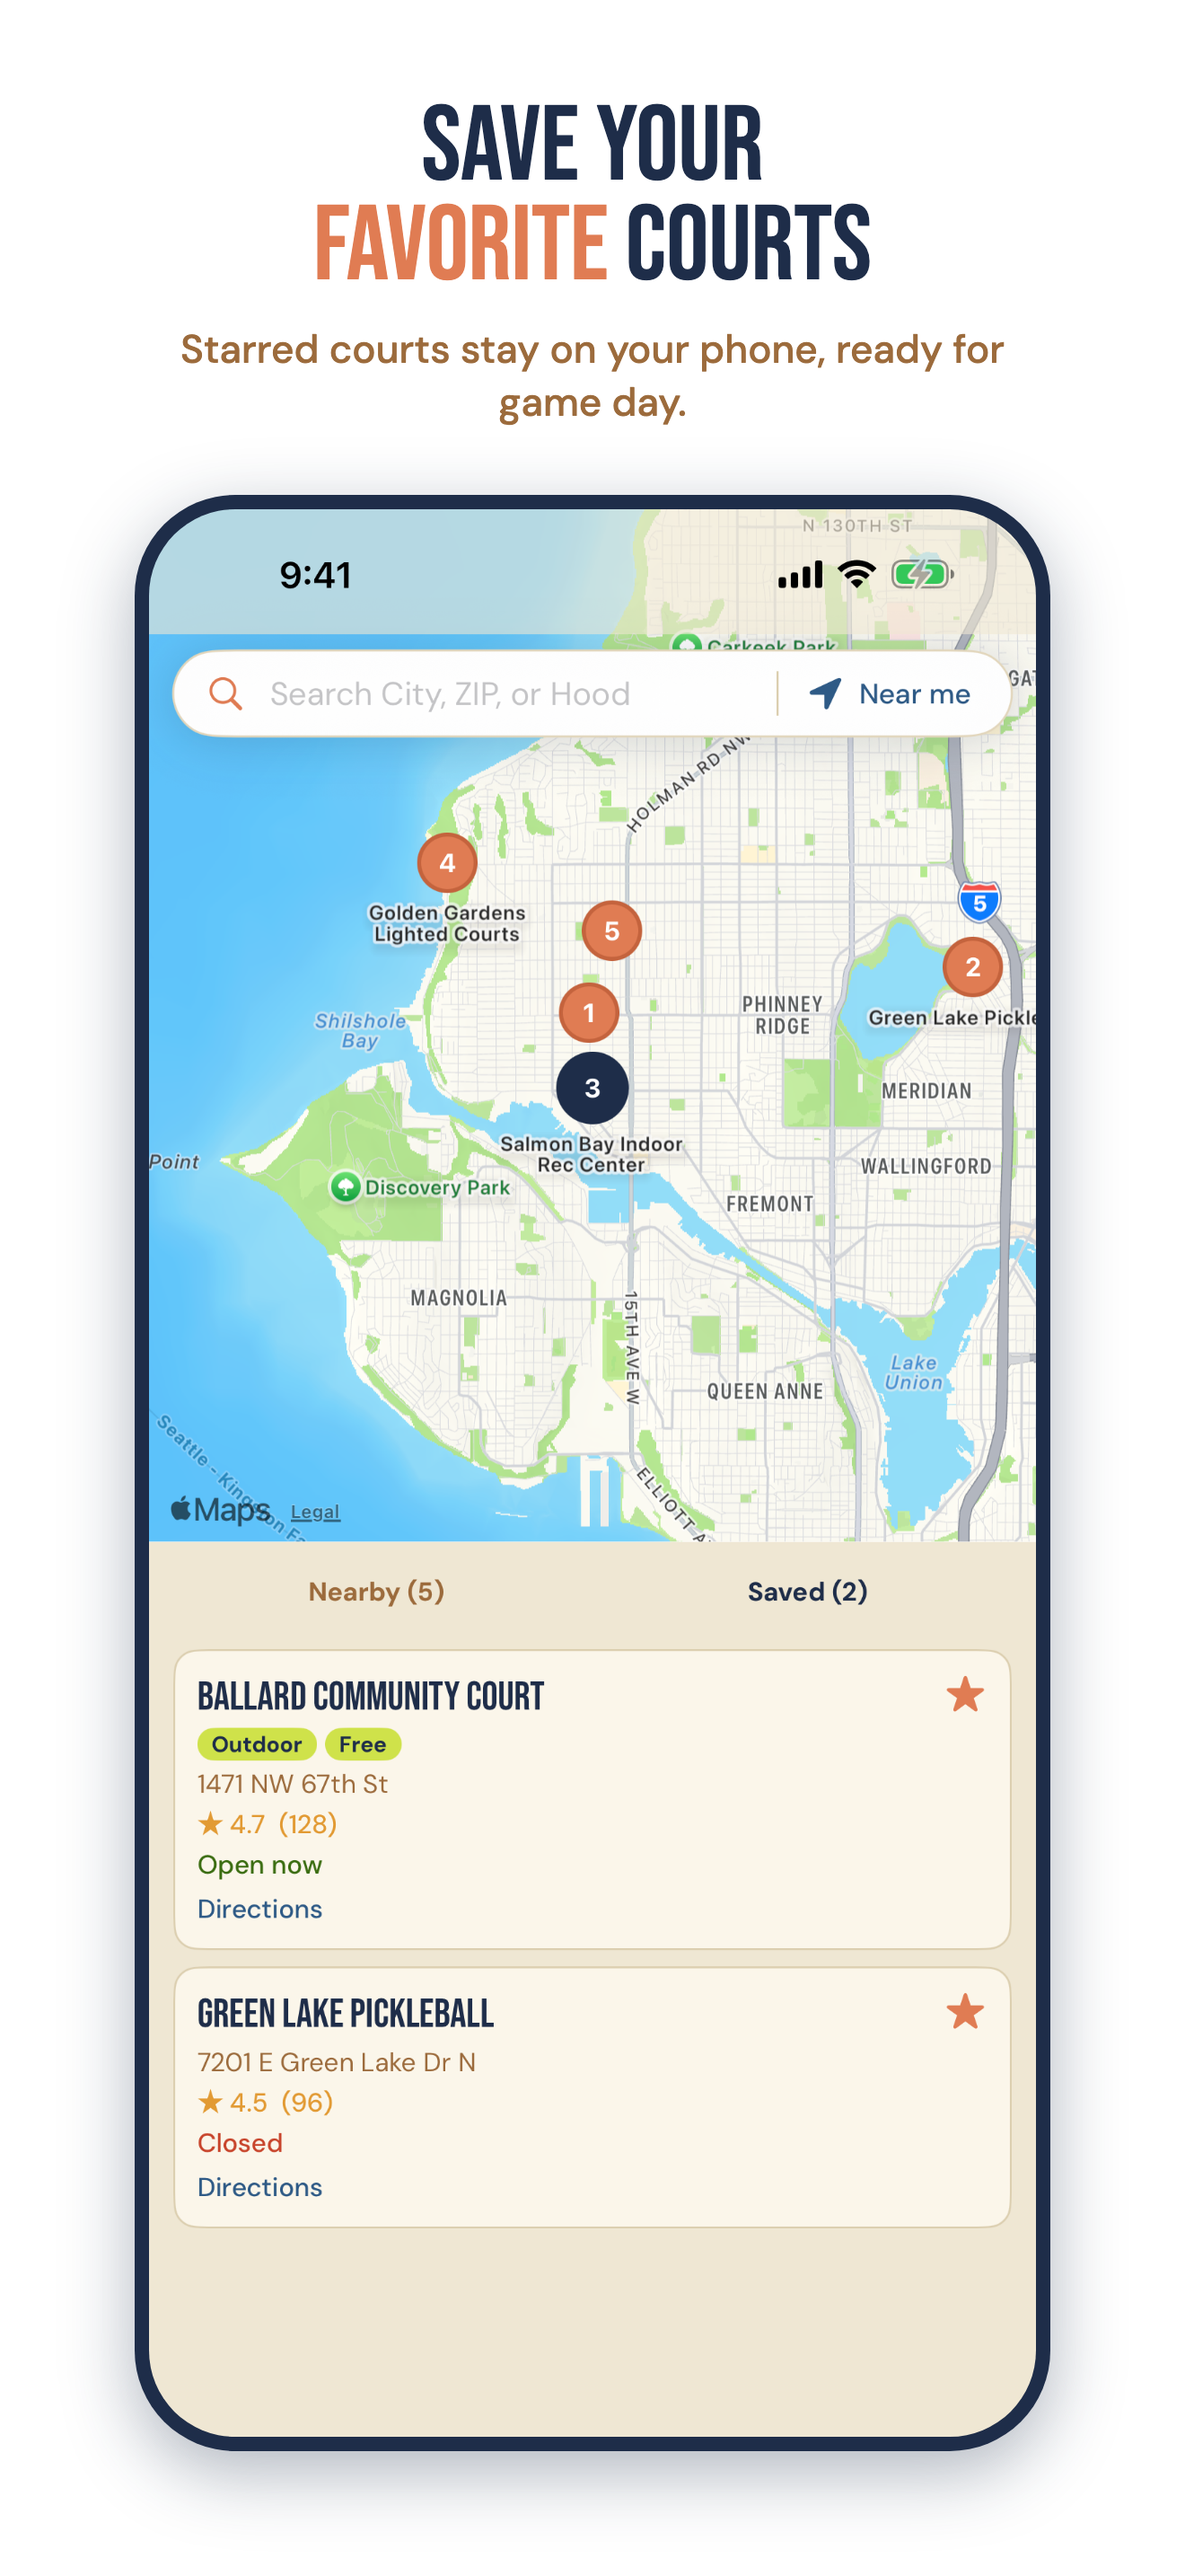
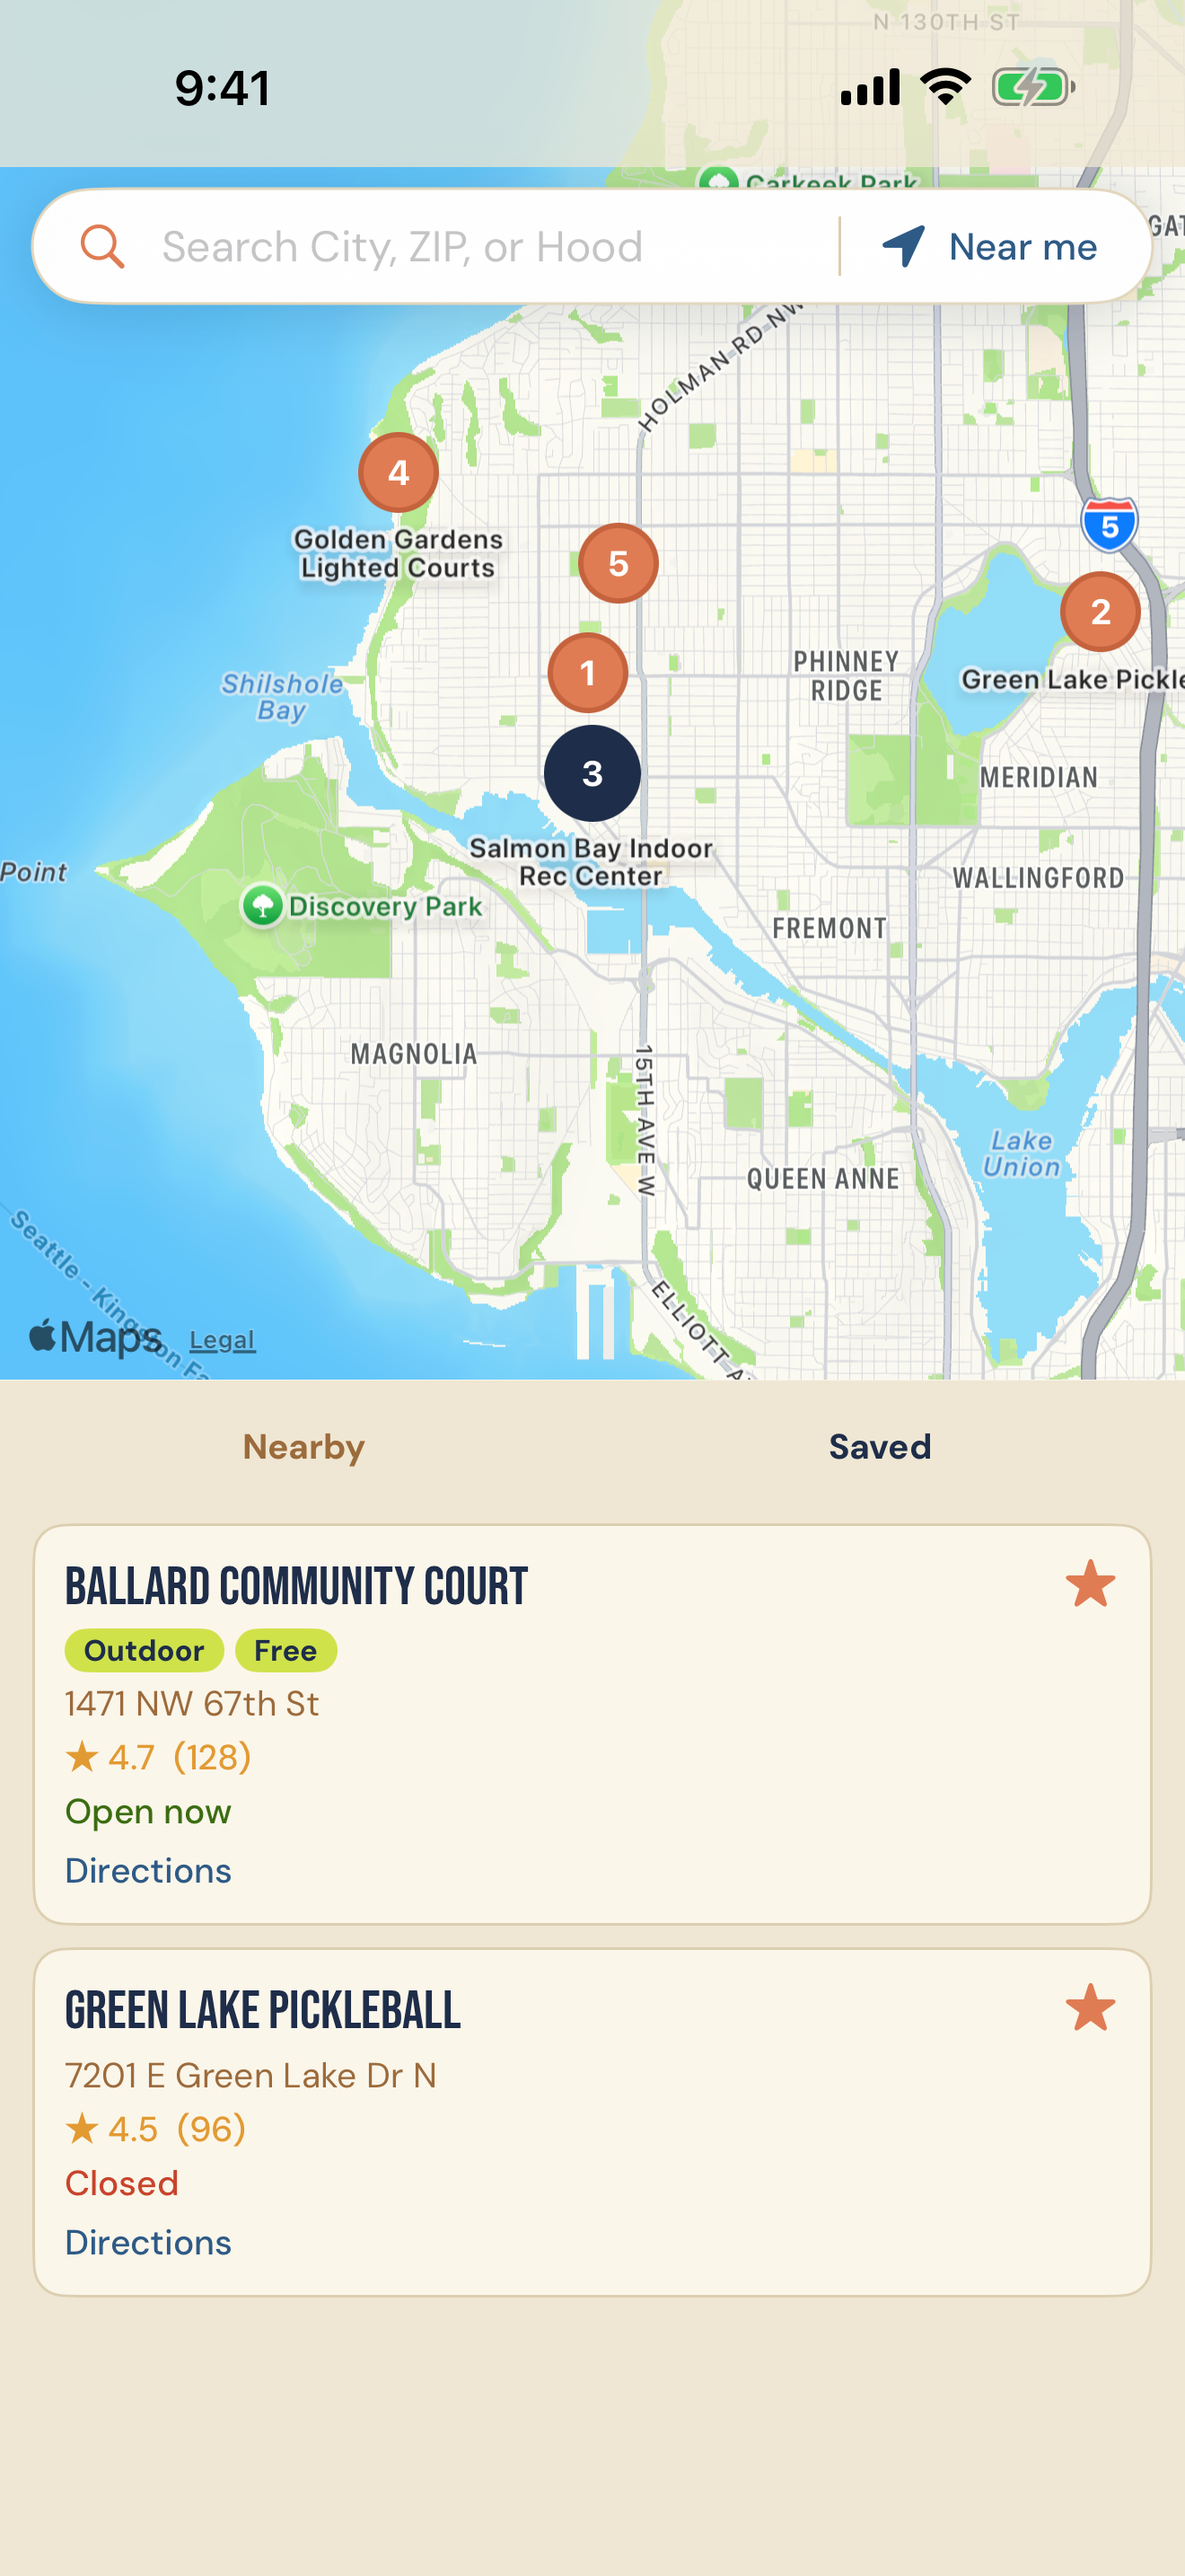
Tidy up the Nearby / Saved tabs (#19)
* Disable the Saved tab when nothing is saved

The Saved tab was always tappable, so a first-time user could land on an
empty list. It's now dimmed and untappable until at least one court is
starred.

Two supporting pieces:
- Unstarring the last court from inside the Saved tab resets the selection
  back to Nearby, so the view is never stranded on a tab it can't return to.
- `.disabled()` alone doesn't grey the button out — `.buttonStyle(.plain)`
  plus an explicit `foregroundStyle` suppresses SwiftUI's automatic dimming
  — so the disabled opacity is spelled out.

The old empty-state text is now unreachable as a view, so it does duty as
the tab's VoiceOver hint, explaining why the tab is dimmed.

* Drop the result counts from the Nearby and Saved tabs

The "(n)" on each tab restated what the list right below it already
showed, and made the Saved tab's label jump around as courts were
starred. Both tabs now read as plain names.

The UI tests matched the Saved tab on the "Saved (" label prefix, so
they now look it up by its exact label.

* Re-capture the App Store screenshots without the tab counts

Regenerated from StoreScreenshotUITests on an iPhone 17 Pro Max with the
9:41 status bar override, so the product-page shots match the current tab
bar: plain "Nearby" / "Saved" labels, and the Saved tab dimmed on the
results shot where nothing is saved yet.

---------

diff --git a/TickleMyPickle/Views/List/CourtListView.swift b/TickleMyPickle/Views/List/CourtListView.swift
@@ -24,52 +24,54 @@ struct CourtListView: View {
   var body: some View {
     VStack(spacing: 0) {
       HStack(spacing: 4) {
-        tabButton(.nearby, label: "\(AppCopy.CourtList.nearbyTab) (\(courts.count))")
-        tabButton(.saved, label: "\(AppCopy.CourtList.savedTab) (\(favorites.count))")
+        tabButton(.nearby, label: AppCopy.CourtList.nearbyTab)
+        tabButton(
+          .saved,
+          label: AppCopy.CourtList.savedTab,
+          // Nothing to show with no saves, so the tab is a dead end — dim it
+          // and let the star on each row be the way in.
+          disabled: favorites.isEmpty,
+        )
       }
       .padding(.horizontal, 8)
       .padding(.top, 8)
 
-      if tab == .saved && favorites.isEmpty {
-        Text(AppCopy.CourtList.emptySaved)
-          .font(AppFont.body(14))
-          .foregroundStyle(Semantic.textMuted)
-          .multilineTextAlignment(.center)
-          .padding(24)
-          .frame(maxWidth: .infinity)
-      } else {
-        ScrollViewReader { proxy in
-          ScrollView {
-            LazyVStack(spacing: 8) {
-              ForEach(Array(rows.enumerated()), id: \.element.id) { index, court in
-                CourtRowView(
-                  court: court,
-                  number: tab == .nearby ? index + 1 : nil,
-                  selected: court.id == selectedCourt?.id,
-                  isFavorite: isFavorite(court.id),
-                  onSelect: { onSelect(court) },
-                  onToggleFavorite: { onToggleFavorite(court) },
-                )
-                .id(court.id)
-              }
+      ScrollViewReader { proxy in
+        ScrollView {
+          LazyVStack(spacing: 8) {
+            ForEach(Array(rows.enumerated()), id: \.element.id) { index, court in
+              CourtRowView(
+                court: court,
+                number: tab == .nearby ? index + 1 : nil,
+                selected: court.id == selectedCourt?.id,
+                isFavorite: isFavorite(court.id),
+                onSelect: { onSelect(court) },
+                onToggleFavorite: { onToggleFavorite(court) },
+              )
+              .id(court.id)
             }
-            .padding(12)
           }
-          // Scroll the selected court into view (Nearby tab only), mirroring
-          // the original app's scrollIntoView behavior.
-          .onChange(of: selectedCourt?.id) { _, newValue in
-            guard tab == .nearby, let newValue else { return }
-            withAnimation {
-              proxy.scrollTo(newValue, anchor: .center)
-            }
+          .padding(12)
+        }
+        // Scroll the selected court into view (Nearby tab only), mirroring
+        // the original app's scrollIntoView behavior.
+        .onChange(of: selectedCourt?.id) { _, newValue in
+          guard tab == .nearby, let newValue else { return }
+          withAnimation {
+            proxy.scrollTo(newValue, anchor: .center)
           }
         }
       }
     }
+    // Unstarring the last saved court from inside the Saved tab would otherwise
+    // strand us on a tab that can no longer be tapped back into.
+    .onChange(of: favorites.isEmpty) { _, isEmpty in
+      if isEmpty { tab = .nearby }
+    }
     .background(Semantic.bg)
   }
 
-  private func tabButton(_ target: Tab, label: String) -> some View {
+  private func tabButton(_ target: Tab, label: String, disabled: Bool = false) -> some View {
     Button {
       tab = target
     } label: {
@@ -80,7 +82,13 @@ struct CourtListView: View {
         .padding(.vertical, 8)
         .background(tab == target ? Palette.ivory : Color.clear)
         .clipShape(RoundedRectangle(cornerRadius: Radii.sm))
+        // `.plain` + an explicit foregroundStyle suppresses SwiftUI's automatic
+        // dimming, so the disabled look has to be spelled out.
+        .opacity(disabled ? 0.4 : 1)
     }
     .buttonStyle(.plain)
+    .disabled(disabled)
+    // VoiceOver otherwise announces the dimmed tab with no reason for it.
+    .accessibilityHint(disabled ? AppCopy.CourtList.emptySaved : "")
   }
 }

diff --git a/TickleMyPickleUITests/LandingFlowUITests.swift b/TickleMyPickleUITests/LandingFlowUITests.swift
@@ -40,6 +40,34 @@ final class LandingFlowUITests: XCTestCase {
       "Results list should show the second stubbed court")
   }
 
+  /// The Saved tab is untappable until something is actually saved, and it
+  /// re-disables when the last save is undone.
+  func testSavedTabIsDisabledUntilACourtIsSaved() {
+    let app = launchStubbedApp()
+
+    let nearMe = app.buttons["Near me"]
+    XCTAssertTrue(nearMe.waitForExistence(timeout: 5), "Near me button should be present")
+    nearMe.tap()
+
+    let savedTab = app.buttons["Saved"].firstMatch
+    XCTAssertTrue(savedTab.waitForExistence(timeout: 5), "Saved tab should be present")
+    XCTAssertFalse(savedTab.isEnabled, "Saved tab should be disabled with no saved courts")
+
+    let star = app.buttons["Save court"].firstMatch
+    XCTAssertTrue(star.waitForExistence(timeout: 5), "Save button should be present on a row")
+    star.tap()
+    XCTAssertTrue(savedTab.isEnabled, "Saving a court should enable the Saved tab")
+
+    // Unsaving the only court from the Saved tab must drop us back on Nearby
+    // rather than stranding the view on a tab that can't be tapped.
+    savedTab.tap()
+    app.buttons["Remove from saved"].firstMatch.tap()
+    XCTAssertFalse(savedTab.isEnabled, "Removing the last save should disable the Saved tab again")
+    XCTAssertTrue(
+      app.staticTexts["Green Lake Pickleball"].waitForExistence(timeout: 5),
+      "Should fall back to the Nearby list, which shows every stubbed court")
+  }
+
   /// Landing → "Near me" resolves the stubbed location and shows the same list.
   func testNearMeShowsResults() {
     let app = launchStubbedApp()

diff --git a/TickleMyPickleUITests/StoreScreenshotUITests.swift b/TickleMyPickleUITests/StoreScreenshotUITests.swift
@@ -51,9 +51,7 @@ final class StoreScreenshotUITests: XCTestCase {
     // from saved", so firstMatch advances to the next unsaved row).
     app.buttons["Save court"].firstMatch.tap()
     app.buttons["Save court"].firstMatch.tap()
-    let savedTab = app.buttons.matching(
-      NSPredicate(format: "label BEGINSWITH 'Saved ('"),
-    ).firstMatch
+    let savedTab = app.buttons["Saved"].firstMatch
     XCTAssertTrue(savedTab.waitForExistence(timeout: 5), "Saved tab should be present")
     savedTab.tap()
     XCTAssertTrue(
